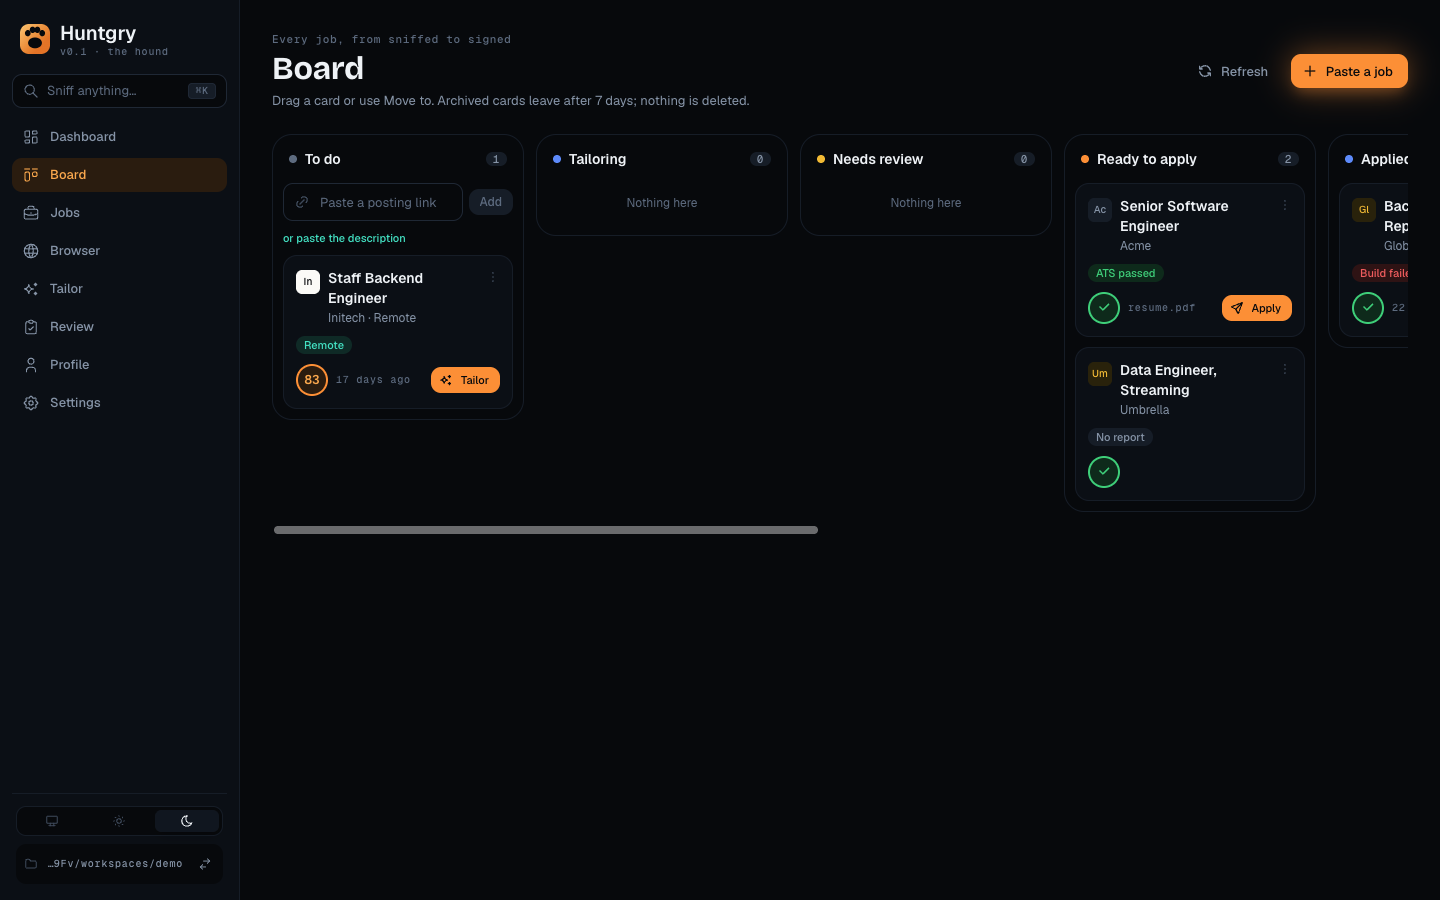
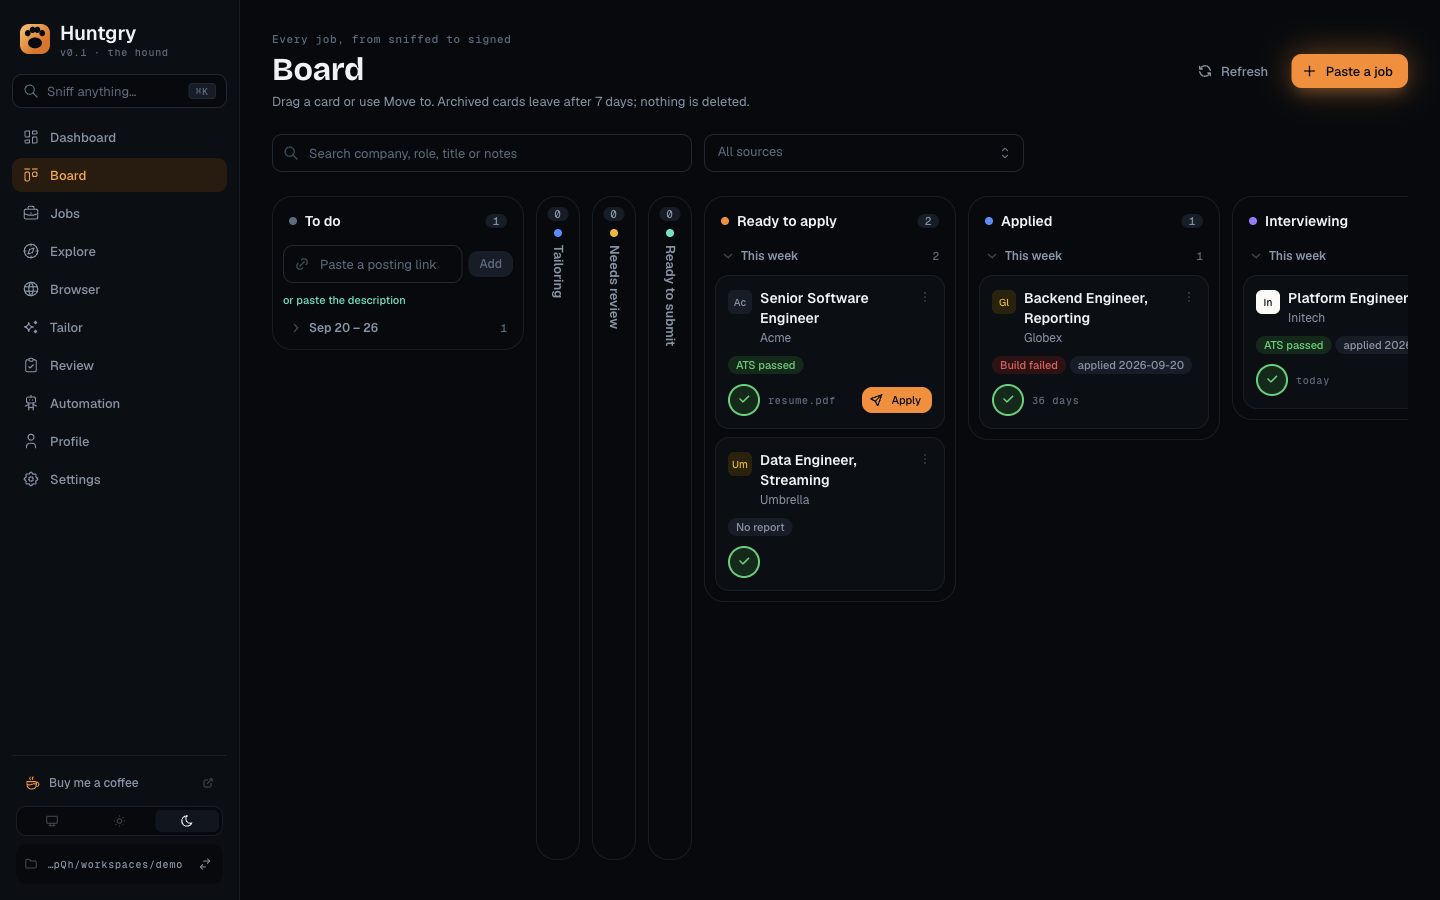
docs(readme): retake the screenshots from the current app
The Dashboard no longer has the job table, and the Board, Tailor and
Apply pages changed since the last capture. Regenerated with
`npm run screenshots` from the fictional e2e demo data.

diff --git a/README.md b/README.md
@@ -50,7 +50,7 @@ also explains how a release is cut.
 
 <table>
   <tr>
-    <td width="50%"><img src="docs/assets/screenshots/board.png" alt="Board: jobs as cards in Kanban columns from To do to Ready to apply"><br><sub><b>Board</b>: every job as a card, from saved to signed.</sub></td>
+    <td width="50%"><img src="docs/assets/screenshots/board.png" alt="Board: jobs as cards in Kanban columns from To do through Applied and Interviewing"><br><sub><b>Board</b>: every job as a card, from saved to signed.</sub></td>
     <td width="50%"><img src="docs/assets/screenshots/tailor.png" alt="Tailor: a finished run of the resume-tailor skill"><br><sub><b>Tailor</b>: a run that went to the end; its result waits on Review.</sub></td>
   </tr>
   <tr>
